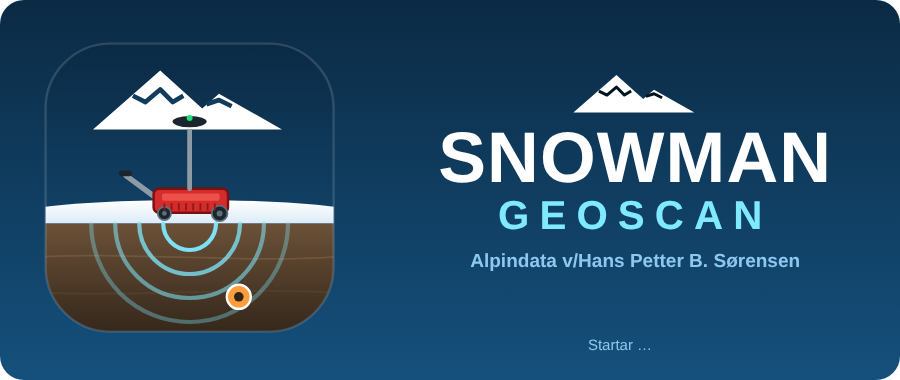
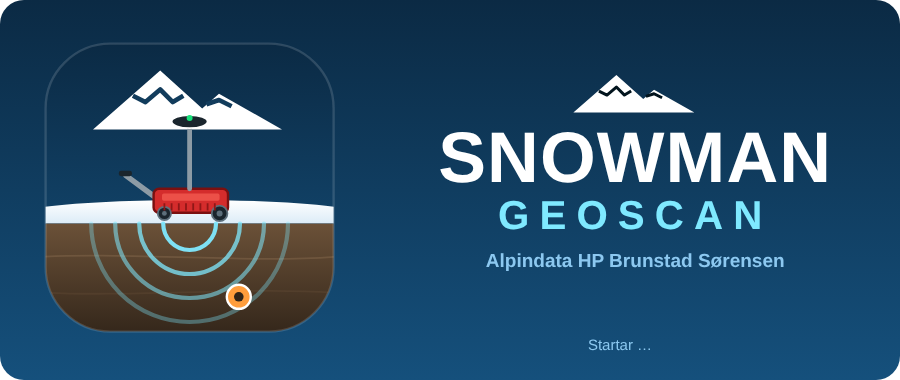
Snowman Geoscan 0.6.1: produsent «Alpindata HP Brunstad Sørensen» (utan v/)
Endra i logo, oppstartbilete, rapportar, eksport, nettlesar, startfiler og dokument.
Signaturen er uendra.

Claude-Session: https://claude.ai/code/session_01PDannpqCARCdRoU9KsAbBq

Changed region(s): [[0.5289, 0.6658, 0.9022, 0.7237]]

diff --git a/pc/web/index.html b/pc/web/index.html
@@ -4,8 +4,8 @@
 <meta charset="utf-8">
 <meta name="viewport" content="width=device-width,initial-scale=1">
 <title>Snowman Geoscan</title>
-<meta name="generator" content="Snowman Geoscan – Alpindata v/Hans Petter B. Sørensen">
-<meta name="author" content="Alpindata v/Hans Petter B. Sørensen">
+<meta name="generator" content="Snowman Geoscan – Alpindata HP Brunstad Sørensen">
+<meta name="author" content="Alpindata HP Brunstad Sørensen">
 <meta name="copyright" content="© 2026 Hans Petter Brunstad Sørensen (Alpindata)">
 <link rel="icon" type="image/png" href="vendor/geoscan-ikon.png">
 <link rel="stylesheet" href="vendor/leaflet.css">
@@ -70,7 +70,7 @@ svg{display:block;margin:6px auto 0}
   <div style="display:flex;align-items:center;gap:12px;margin-bottom:10px">
     <img src="vendor/geoscan-ikon.svg" alt="" width="48" height="48" style="border-radius:11px">
     <div><h1>Snowman Geoscan <span id="ver"></span></h1>
-    <div class="prod" style="margin:0">Alpindata v/Hans Petter B. Sørensen</div></div></div>
+    <div class="prod" style="margin:0">Alpindata HP Brunstad Sørensen</div></div></div>
   <div id="demo" class="banner demo" style="display:none">DEMO – simulert mottakar og NTRIP-caster. Dette er ikkje ekte målingar.</div>
   <div id="oppd" class="banner oppd" style="display:none"><span id="otekst"></span>
     <button class="b" id="obtn" style="margin-left:8px;background:var(--var)" onclick="oppdater()">Oppdater no</button>
@@ -491,7 +491,7 @@ function punktAv(fi){const f=siste.etter.features[fi],pr=f.properties||{},ll=[];
     hb:g("bakke_nn2000_m",i),fl:g("flytta_cm",i),lat:p[0],lon:p[1]}))}
 const objNamn=fi=>{const pr=siste.etter.features[fi].properties||{};return{id:pr.id??(fi+1),lag:pr.layer||"",type:pr.type||"",skildring:pr.description||"",pr}};
 const EPSG={32:5972,33:5973,35:5975};
-let OPPHAV={namn:"Snowman Geoscan",produsent:"Alpindata v/Hans Petter B. Sørensen",signatur:"",versjon:""};
+let OPPHAV={namn:"Snowman Geoscan",produsent:"Alpindata HP Brunstad Sørensen",signatur:"",versjon:""};
 const generatorTekst=()=>`${OPPHAV.namn} ${OPPHAV.versjon} – ${OPPHAV.produsent} – ${OPPHAV.signatur}`;
 function cp1252(s){/* DXF R12 skal vere Windows-1252: æøå og latin-1 er like, nokre teikn har eigne kodar */
   const sp={"€":0x80,"…":0x85,"–":0x96,"—":0x97,"‘":0x91,"’":0x92,"“":0x93,"”":0x94,"•":0x95},b=new Uint8Array(s.length);

diff --git a/tests/test_geoscan.py b/tests/test_geoscan.py
@@ -293,7 +293,7 @@ def test_ende_til_ende_simulator_ntrip_tcp_status(tmp_path):
     assert st["korr"]["korrigert"] and st["korr"]["hellingskjelde"] == "PASHR"
     assert st["ntrip"]["tilstand"] == "tilkopla" and st["ntrip"]["byte"] > 0
     assert m.rtcm_bytes > 0 and c.gga > 0                      # RTCM kom fram til «mottakaren», GGA til casteren
-    assert "Snowman Geoscan" in side and "Alpindata v/Hans Petter B. Sørensen" in side
+    assert "Snowman Geoscan" in side and "Alpindata HP Brunstad Sørensen" in side
     assert list((tmp_path / "logg").glob("raa_*.nmea")) and list((tmp_path / "logg").glob("geoscan_*.csv"))
 
 
@@ -374,13 +374,13 @@ def test_nettlesar_api_resultat_send_inn_innstillingar(tmp_path, monkeypatch):
         assert hb is not None and abs(ho - (hb - d1)) < 0.002
         assert abs(hb - (150.0 + 44.775 - GEOID.n(*spor[0][:2]) - 1.4)) < 0.05      # simulert antenne − mast
         csvtxt = _u.urlopen(base + "last-ned/resultat/" + _uq(r["filer"]["csv"]), timeout=5).read().decode()
-        assert csvtxt.startswith("Snowman Geoscan – Alpindata v/Hans Petter B. Sørensen")      # tittellina
+        assert csvtxt.startswith("Snowman Geoscan – Alpindata HP Brunstad Sørensen")      # tittellina
         assert "djupn_retta_m" in csvtxt.splitlines()[1] and ";1,989;" in csvtxt and "." not in csvtxt.splitlines()[2]
         # namnet og signaturen er med i alle filtypane
         import opphav as OP
         gjtxt = _u.urlopen(base + "last-ned/resultat/" + _uq(r["filer"]["geojson"]), timeout=5).read()
         assert OP.sjekk_signatur(dxf) and OP.sjekk_signatur(csvtxt) and OP.sjekk_signatur(gjtxt)
-        assert "SNOWMAN_GEOSCAN" in dxf and "Alpindata v/Hans Petter B. Sørensen" in dxf
+        assert "SNOWMAN_GEOSCAN" in dxf and "Alpindata HP Brunstad Sørensen" in dxf
         assert r["filer"]["geojson"] == "røyr_retta.geojson"
         # svar og pakke
         post("api/svar", {"namn": "Norman", "svar": {"mast": "1,45", "ukjend": "x"}})

diff --git a/pc/ikon/lag-ikon.py b/pc/ikon/lag-ikon.py
@@ -1,5 +1,5 @@
 #!/usr/bin/env python3
-# Snowman Geoscan – Alpindata v/Hans Petter B. Sørensen. Copyright © 2026. Alle rettar reserverte.
+# Snowman Geoscan – Alpindata HP Brunstad Sørensen. Copyright © 2026. Alle rettar reserverte.
 """Lagar ikona og logoen til Snowman Geoscan frå éi kjelde.
 
 Same uttrykk som SNOWMAN Snødjupne (pc/v1.6/ikon/lag-ikon.py i Snowman6230/Snowman-Snowdeept): natthimmel,
@@ -10,7 +10,7 @@ eit nedgrave røyr.
 Skriv:
   geoscan.svg            hovudikon (512 × 512), kjeldefil
   geoscan-enkel.svg      forenkla ikon for små storleikar (16–32 px)
-  geoscan-logo.svg       logo med tekst (fjelltoppar, SNOWMAN GEOSCAN, Alpindata v/Hans Petter B. Sørensen)
+  geoscan-logo.svg       logo med tekst (fjelltoppar, SNOWMAN GEOSCAN, Alpindata HP Brunstad Sørensen)
   geoscan-256.png, geoscan-512.png, geoscan.ico (16–256 px)   – snarvegar og oppstartbilete
   oppstart.png           oppstartbiletet (ikon + logo) som blir vist når programmet startar
   ../web/vendor/geoscan-ikon.png (64 px), ../web/vendor/geoscan-logo.svg   – nettlesaren
@@ -23,7 +23,7 @@ import sys
 from pathlib import Path
 
 HER = Path(__file__).resolve().parent
-NAMN, PRODUSENT = "Snowman Geoscan", "Alpindata v/Hans Petter B. Sørensen"
+NAMN, PRODUSENT = "Snowman Geoscan", "Alpindata HP Brunstad Sørensen"
 
 # Frå SNOWMAN-logoen (viewBox 120 × 30) – same form som i Snødjupne
 PEAKS = "M14 30 L46 2 L66 20 L74 13 L104 30 Z"

diff --git a/pc/geoscan.py b/pc/geoscan.py
@@ -1,4 +1,4 @@
-# Snowman Geoscan – Alpindata v/Hans Petter B. Sørensen. Copyright © 2026. Alle rettar reserverte.
+# Snowman Geoscan – Alpindata HP Brunstad Sørensen. Copyright © 2026. Alle rettar reserverte.
 """Snowman Geoscan – hellingskorrigert GNSS-posisjon til IDS Stream C (OneVision).
 
     mottakar (NMEA: GGA + helling) ──┐
@@ -27,7 +27,7 @@ import nmea as N
 from geoide import GEOID
 
 HER = Path(__file__).resolve().parent
-VERSJON = "0.6.0"
+VERSJON = "0.6.1"
 from opphav import NAMN, PRODUSENT, SIGNATUR   # namnet og opphavet (sjå opphav.py)
 STANDARD = {
     "inn": [{"port": "COM23", "baud": 115200}],
@@ -267,7 +267,7 @@ class App:
             d = HER / cfg["logg"]
             d.mkdir(exist_ok=True)
             self.rec = open(d / time.strftime("raa_%Y%m%d_%H%M%S.nmea"), "a", encoding="ascii", errors="replace")
-            self.rec.write(f"# {NAMN} {VERSJON} - Alpindata v/Hans Petter B. Sorensen - {SIGNATUR}\n")
+            self.rec.write(f"# {NAMN} {VERSJON} - Alpindata HP Brunstad Sorensen - {SIGNATUR}\n")
         self.ntrip = NT.NtripTeneste(NT.load(cfg, HER), self, VERSJON)
         self.oppd = {"lokal": VERSJON, "github": None, "nyare": False, "koyrer": False, "logg": [], "omstart": False}
 

diff --git a/pc/opphav.py b/pc/opphav.py
@@ -1,4 +1,4 @@
-# Snowman Geoscan – Alpindata v/Hans Petter B. Sørensen. Copyright © 2026. Alle rettar reserverte.
+# Snowman Geoscan – Alpindata HP Brunstad Sørensen. Copyright © 2026. Alle rettar reserverte.
 """Opphavet til Snowman Geoscan: namn, produsent og signatur. Alt programmet lagar (rapportar, eksportfiler,
 pakkar, loggar og nettsida) får namnet med seg – synleg i rapportar, og gøymt som metadata i datafiler, så
 opphavet kan visast også når fila er sendt vidare.
@@ -10,7 +10,7 @@ import base64
 import hashlib
 
 NAMN = "Snowman Geoscan"
-PRODUSENT = "Alpindata v/Hans Petter B. Sørensen"
+PRODUSENT = "Alpindata HP Brunstad Sørensen"
 COPYRIGHT = "Copyright © 2026 Hans Petter Brunstad Sørensen (Alpindata). Alle rettar reserverte."
 _KJERNE = "SNOWMAN GEOSCAN|ALPINDATA|HANS PETTER BRUNSTAD SØRENSEN|SYKKYLVEN|2026"
 SIGNATUR = "SNWGEO-" + hashlib.sha256(_KJERNE.encode("utf-8")).hexdigest()[:16].upper()

diff --git a/pc/geoide.py b/pc/geoide.py
@@ -1,4 +1,4 @@
-# Snowman Geoscan – Alpindata v/Hans Petter B. Sørensen. Copyright © 2026. Alle rettar reserverte.
+# Snowman Geoscan – Alpindata HP Brunstad Sørensen. Copyright © 2026. Alle rettar reserverte.
 """Kartverket sin geoidemodell HREF2018B (NN2000 over EUREF89): N(lat, lon) i meter, NN2000 = ellipsoidisk − N.
 
 Opphav: kopiert frå SNOWMAN Snødjupne, pc/v1.6/terrain.py (klassen Geoid og _geokeys), Snowman6230/Snowman-Snowdeept

diff --git a/pc/helling.py b/pc/helling.py
@@ -1,4 +1,4 @@
-# Snowman Geoscan – Alpindata v/Hans Petter B. Sørensen. Copyright © 2026. Alle rettar reserverte.
+# Snowman Geoscan – Alpindata HP Brunstad Sørensen. Copyright © 2026. Alle rettar reserverte.
 """Hellingskorreksjon for georadar (IDS Stream C): GNSS-antenna står på ein mast over radaren. Når radaren
 hallar, står antenna ikkje rett over referansepunktet på radaren, og posisjonen til OneVision blir forskoven.
 

diff --git a/pc/innstillingar.py b/pc/innstillingar.py
@@ -1,4 +1,4 @@
-# Snowman Geoscan – Alpindata v/Hans Petter B. Sørensen. Copyright © 2026. Alle rettar reserverte.
+# Snowman Geoscan – Alpindata HP Brunstad Sørensen. Copyright © 2026. Alle rettar reserverte.
 """Innstillingar frå nettlesaren: les og skriv geoscan_config.json og ntrip_lokal.json (innlogging).
 Passordet blir aldri sendt til nettlesaren – berre om det finst. Tomt passordfelt = behald det gamle."""
 import json

diff --git a/pc/ntripklient.py b/pc/ntripklient.py
@@ -1,4 +1,4 @@
-# Snowman Geoscan – Alpindata v/Hans Petter B. Sørensen. Copyright © 2026. Alle rettar reserverte.
+# Snowman Geoscan – Alpindata HP Brunstad Sørensen. Copyright © 2026. Alle rettar reserverte.
 # Opphav: kopiert uendra frå SNOWMAN Snødjupne, pc/v1.6/ntripklient.py (Snowman6230/Snowman-Snowdeept, commit 8a05dc4).
 """NTRIP-klient: kopling til casteren (NTRIP 1 og 2), og kjeldetabellen (lista over mountpoints).
 

diff --git a/pc/simuler.py b/pc/simuler.py
@@ -1,4 +1,4 @@
-# Snowman Geoscan – Alpindata v/Hans Petter B. Sørensen. Copyright © 2026. Alle rettar reserverte.
+# Snowman Geoscan – Alpindata HP Brunstad Sørensen. Copyright © 2026. Alle rettar reserverte.
 """Simulator for testing utan utstyr: ein mottakar som køyrer georadarvogna fram og tilbake i ein sidebakke,
 og (valfritt) ein falsk NTRIP-caster. Alt er SIMULERT – ikkje bruk resultata som målingar.
 

diff --git a/pc/innsending.py b/pc/innsending.py
@@ -1,4 +1,4 @@
-# Snowman Geoscan – Alpindata v/Hans Petter B. Sørensen. Copyright © 2026. Alle rettar reserverte.
+# Snowman Geoscan – Alpindata HP Brunstad Sørensen. Copyright © 2026. Alle rettar reserverte.
 """«Send inn»: svar på dei opne spørsmåla, filer frå operatøren (eksportar, oppsettfiler, bilete), og éi pakke
 (zip) med alt utviklaren treng. Pakka inneheld aldri passord eller brukarnamn.
 

diff --git a/pc/resultat.py b/pc/resultat.py
@@ -1,4 +1,4 @@
-# Snowman Geoscan – Alpindata v/Hans Petter B. Sørensen. Copyright © 2026. Alle rettar reserverte.
+# Snowman Geoscan – Alpindata HP Brunstad Sørensen. Copyright © 2026. Alle rettar reserverte.
 """Resultat etter skanninga: loggøktene (spor med helling) og retting av eksportfiler frå GRED HD / OneVision.
 Brukt av Resultat-fana i nettlesaren (webtenar.py). Alt blir rekna lokalt på PC-en.
 
